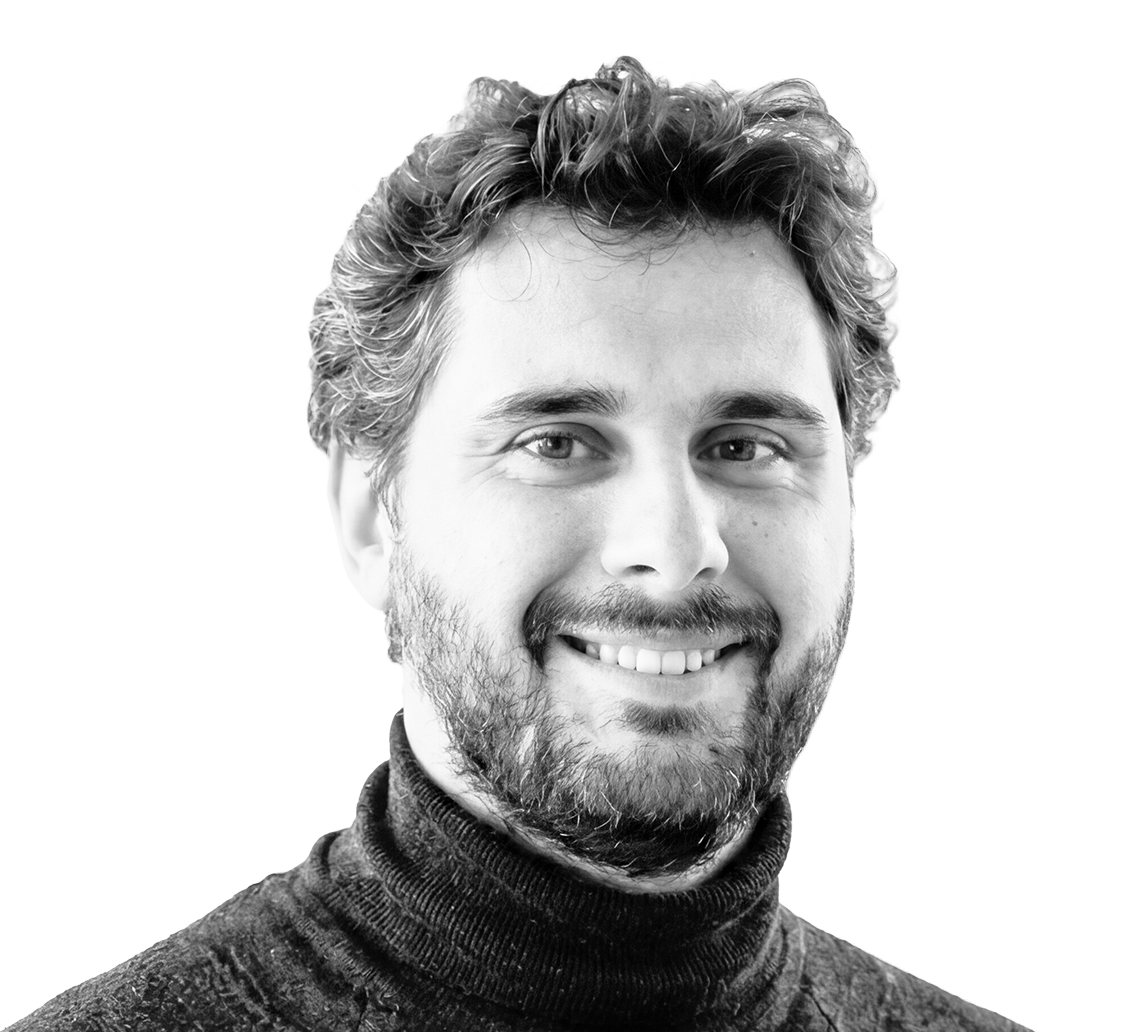
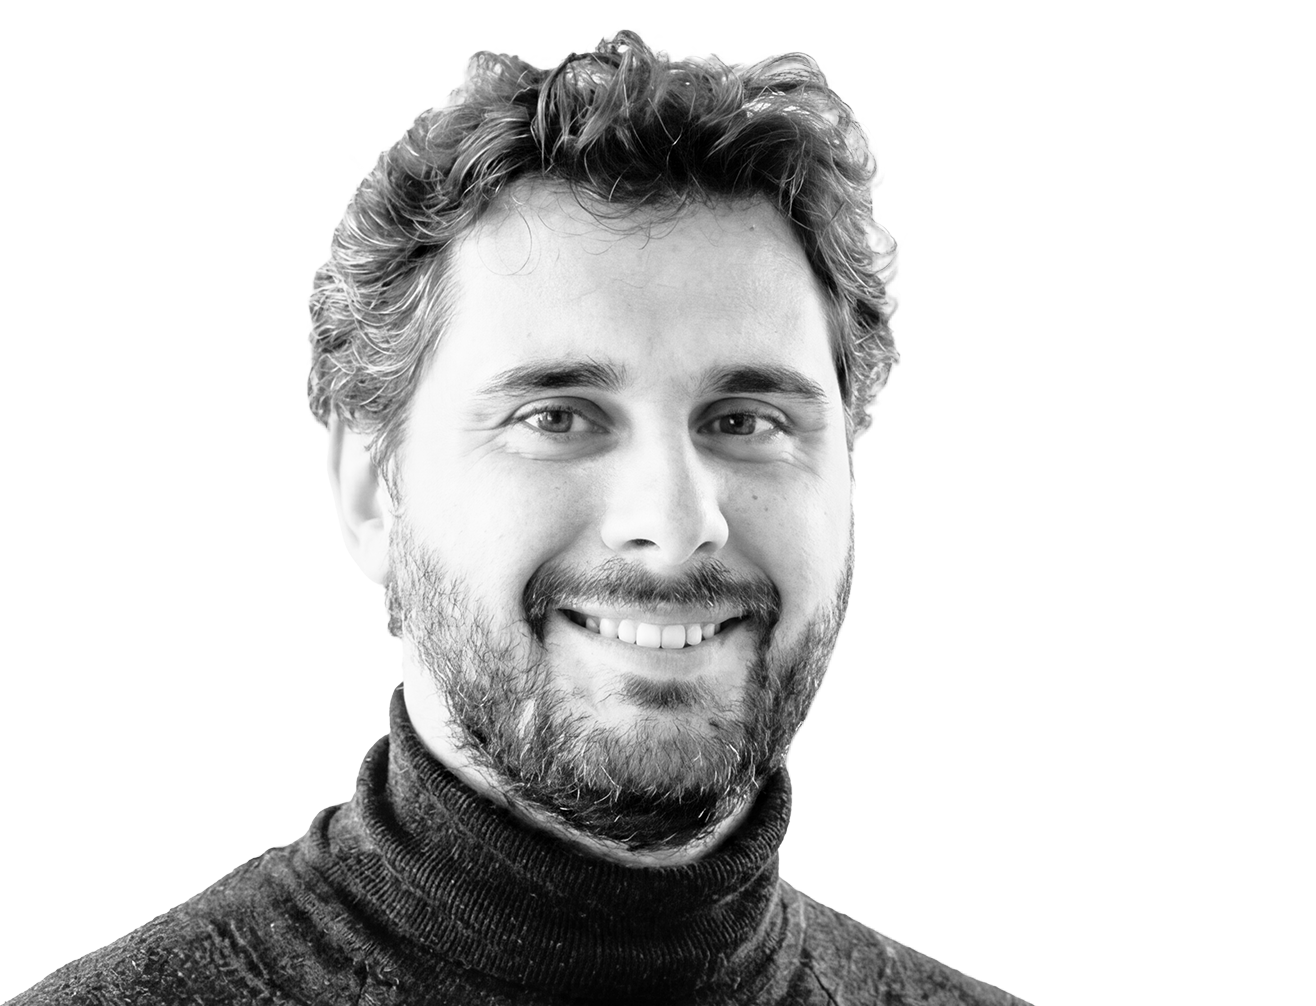
Обновление сайта2

diff --git a/assets/css/style.css b/assets/css/style.css
@@ -495,7 +495,7 @@ nav{
 }
 
 .hero-section-photo{
-	width: 78%;
+	width: 85%;
 	position: absolute;
 	bottom: 0;
 	left: 1.5%;
@@ -681,13 +681,13 @@ nav{
 	/* SERVICE CARD */
 
 .service-card{
-	width: 90%;
+	width: 100%;
 	height: 100%;
 	border-top: 1px var(--color-gray-borders) solid;
 	border-radius: var(--border-radius-sections);
 	background-color: var(--color-dark);
 	flex-shrink: 0;
-	margin: 10px 5%;
+	margin: 10px 0;
 }
 
 .top-part-card{

diff --git a/js/arrows.js b/js/arrows.js
@@ -84,4 +84,4 @@ leftArrow.addEventListener('click', function(){
 	arrowsSwap();
 })
 
-changeSlide(pos);
+changeSlide(pos);	
